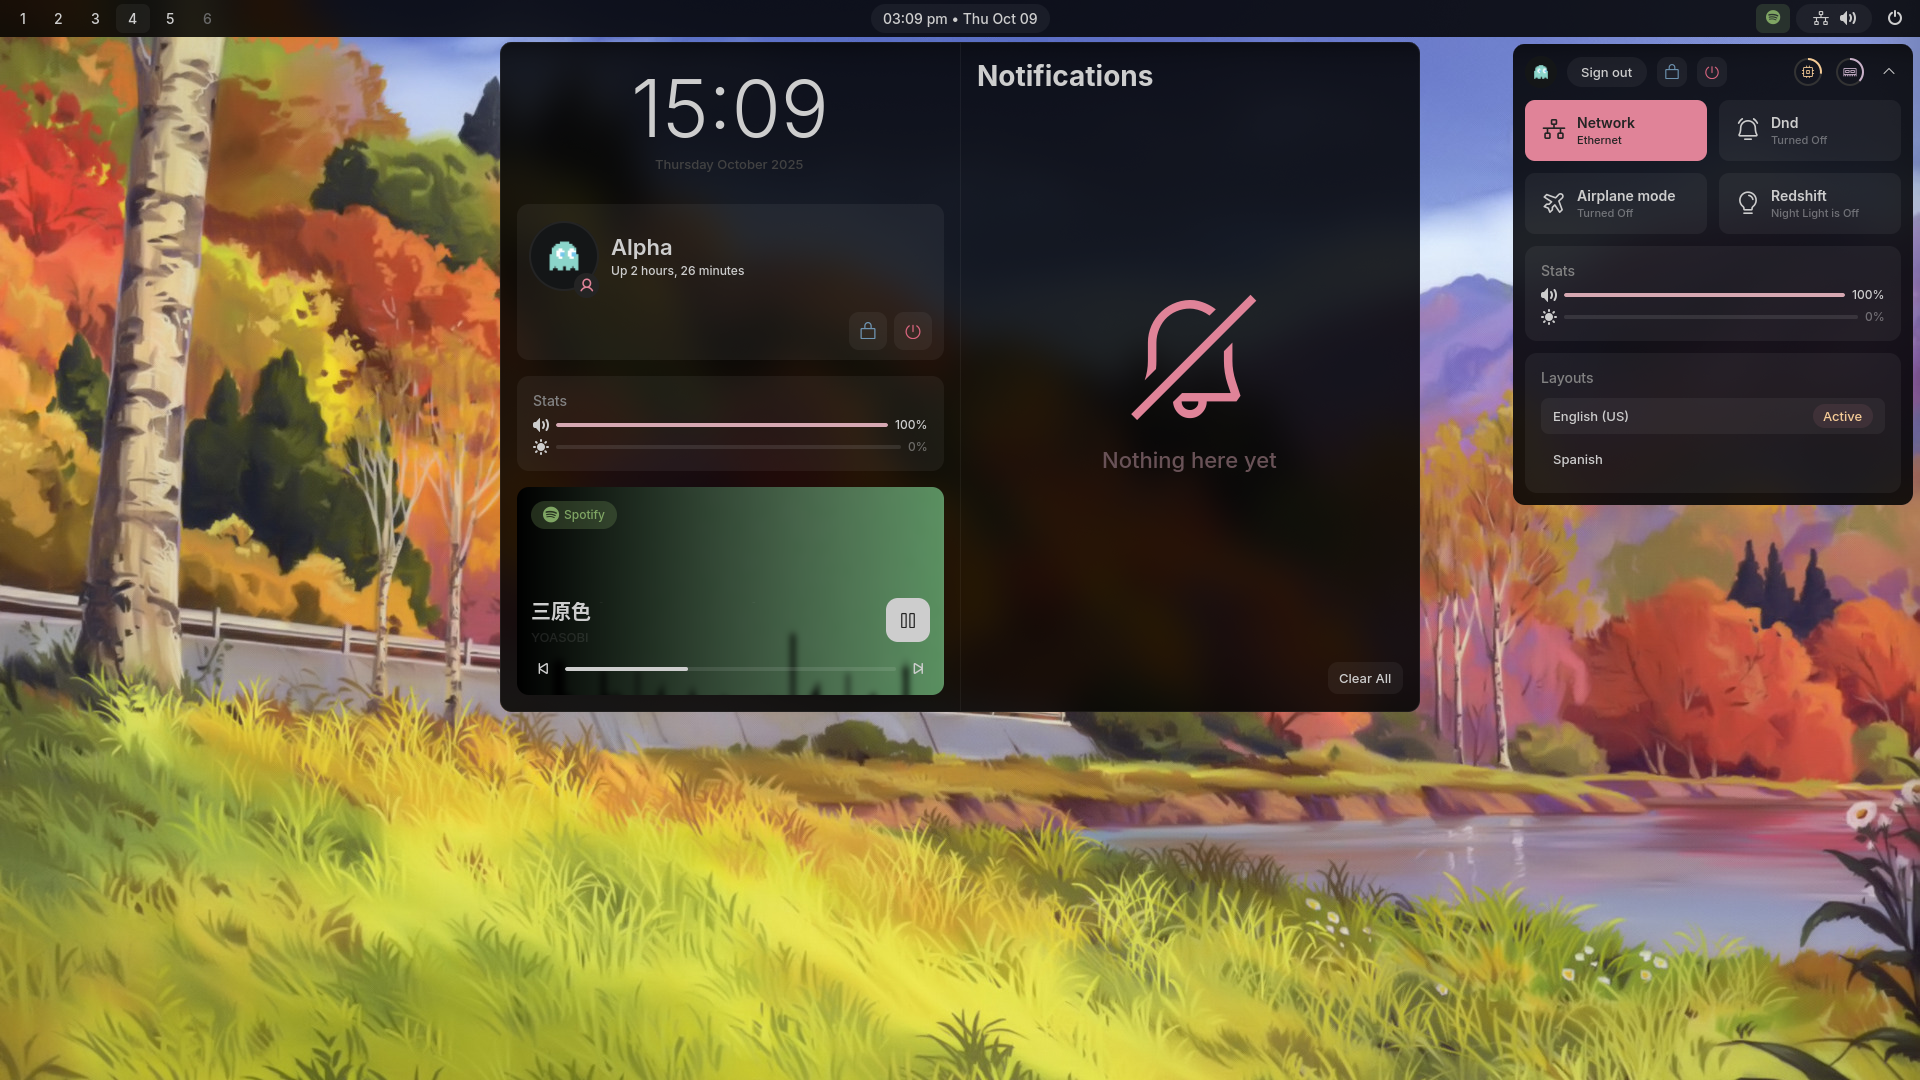
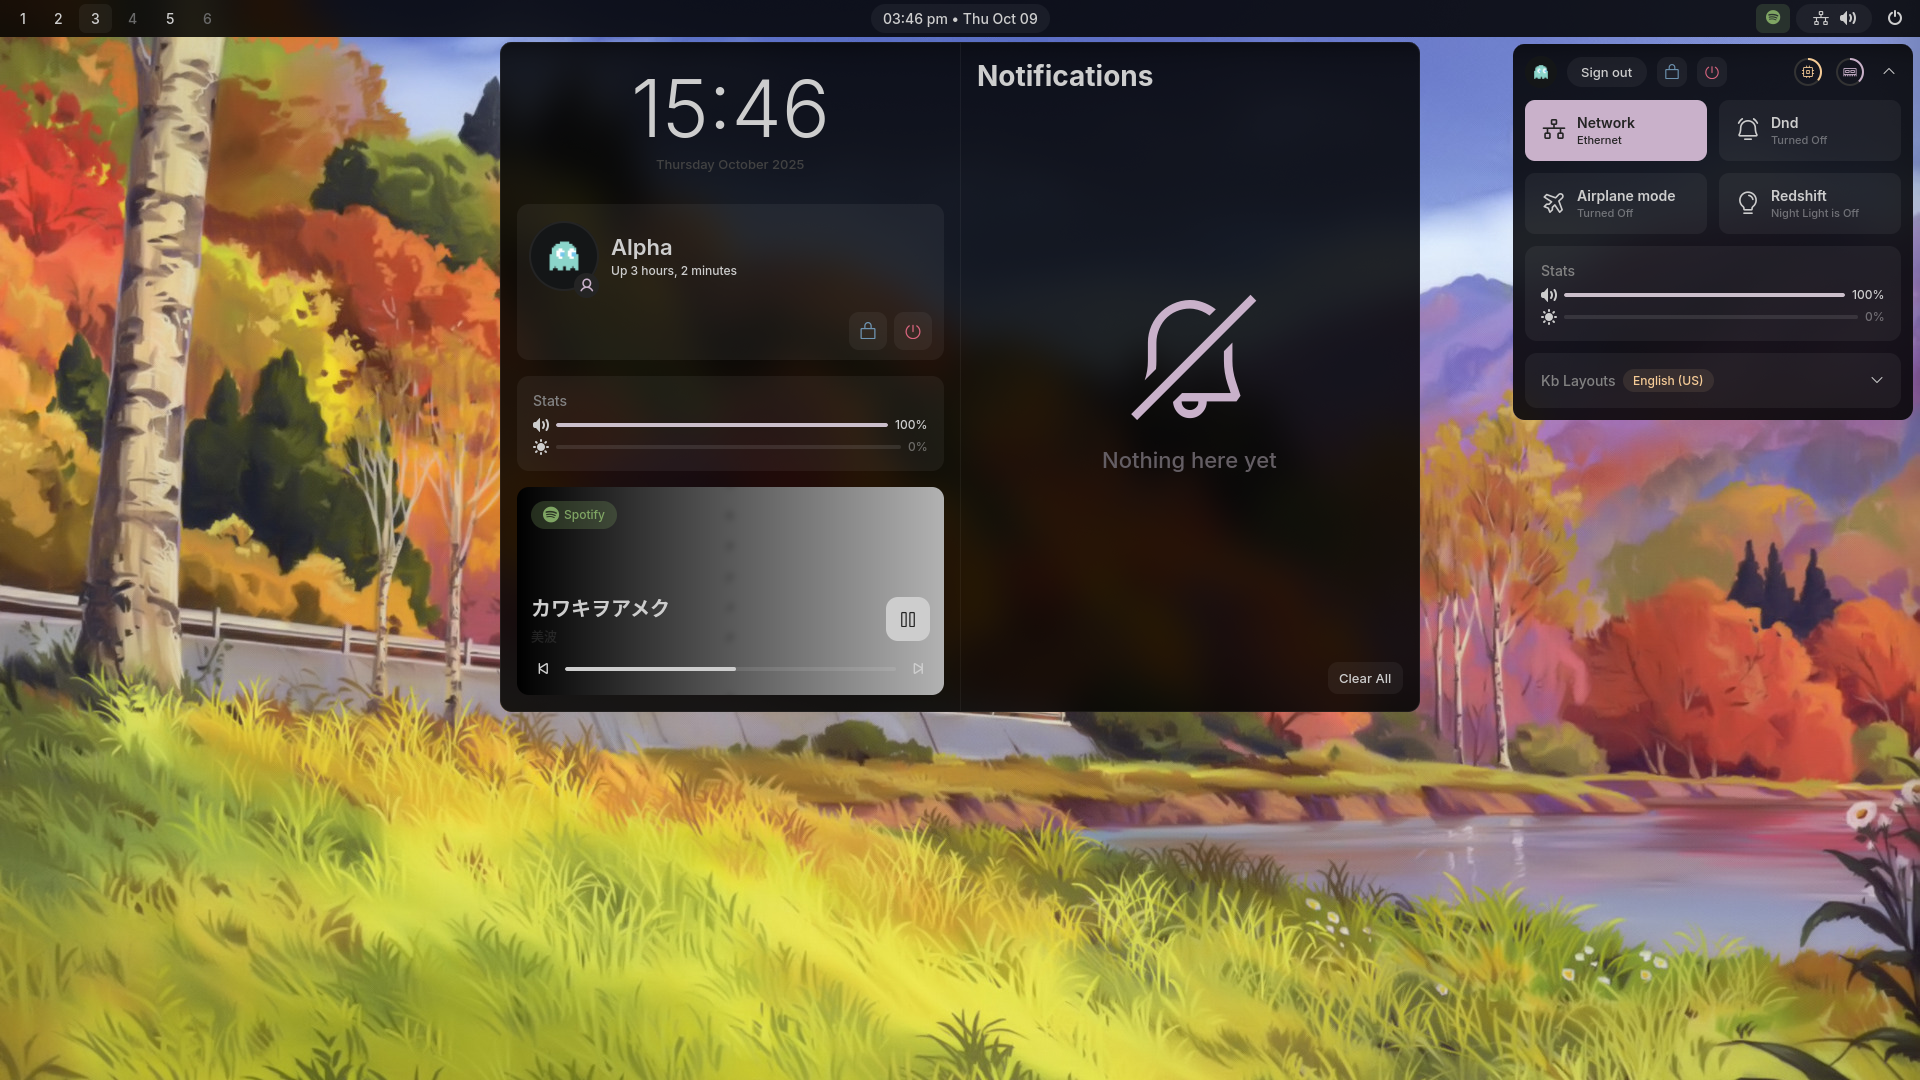
feat: Update demonstration.png

diff --git a/widget/ControlCenter/style.scss b/widget/ControlCenter/style.scss
@@ -180,7 +180,7 @@ window.ControlCenter {
             .ActiveChip {
               font-size: 13px;
               color: $accent2;
-              background-color: rgba($accent, 0.10);
+              background-color: rgba($accent2, 0.10);
               padding: 4px 10px;
               border-radius: 100px;
               &.Inactive { background-color: transparent; }

diff --git a/theme.scss b/theme.scss
@@ -29,7 +29,7 @@ $font-regular: Inter;
 $font-icons: Phosphor;
 $font-nf: JetBrainsMono Nerd Font;
 
-$accent: $light_red;
+$accent: $light_magenta;
 $accent2: $light_yellow;
 $tinted-white: color.mix($accent, $white, 50%);
 $tinted-white-2: color.mix($accent, $white, 75%);
